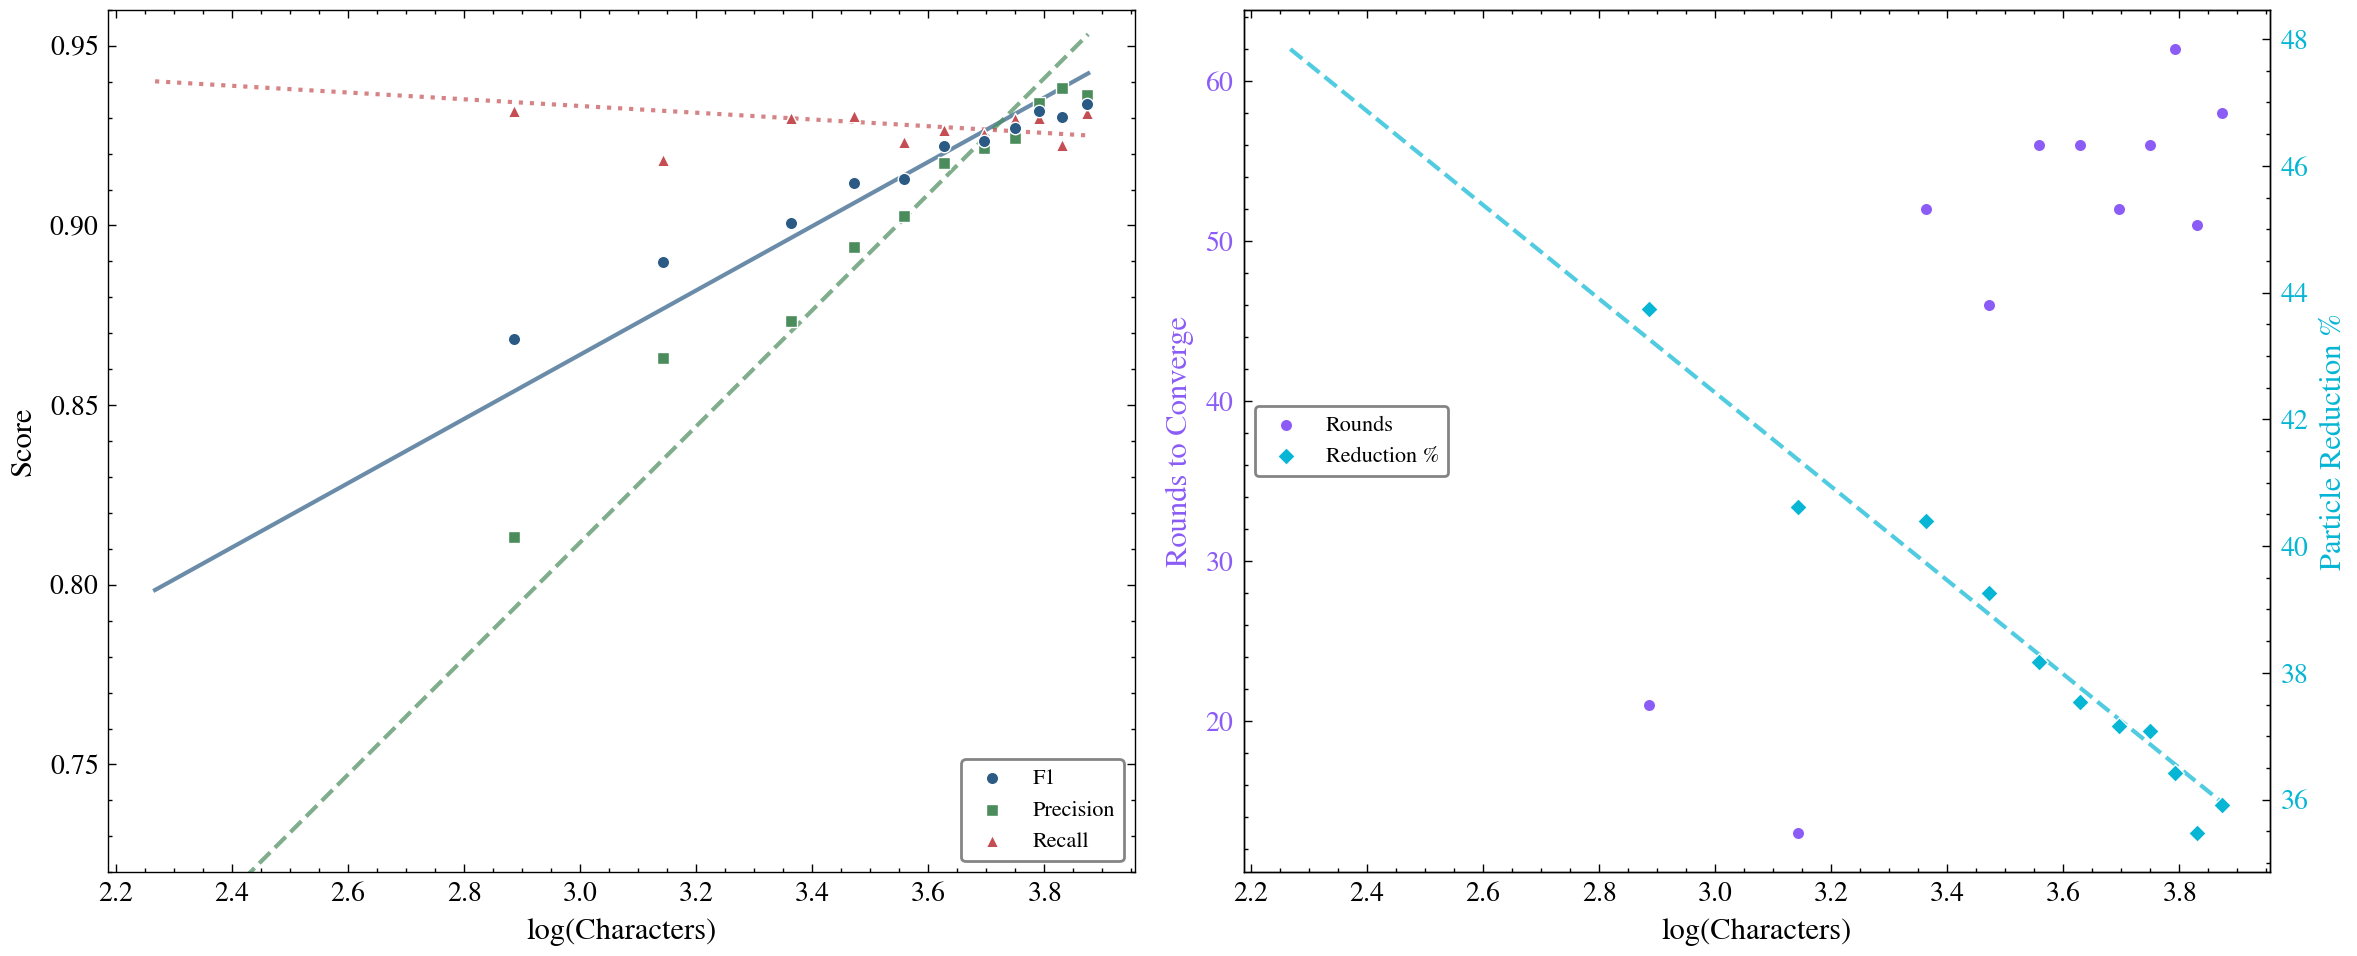
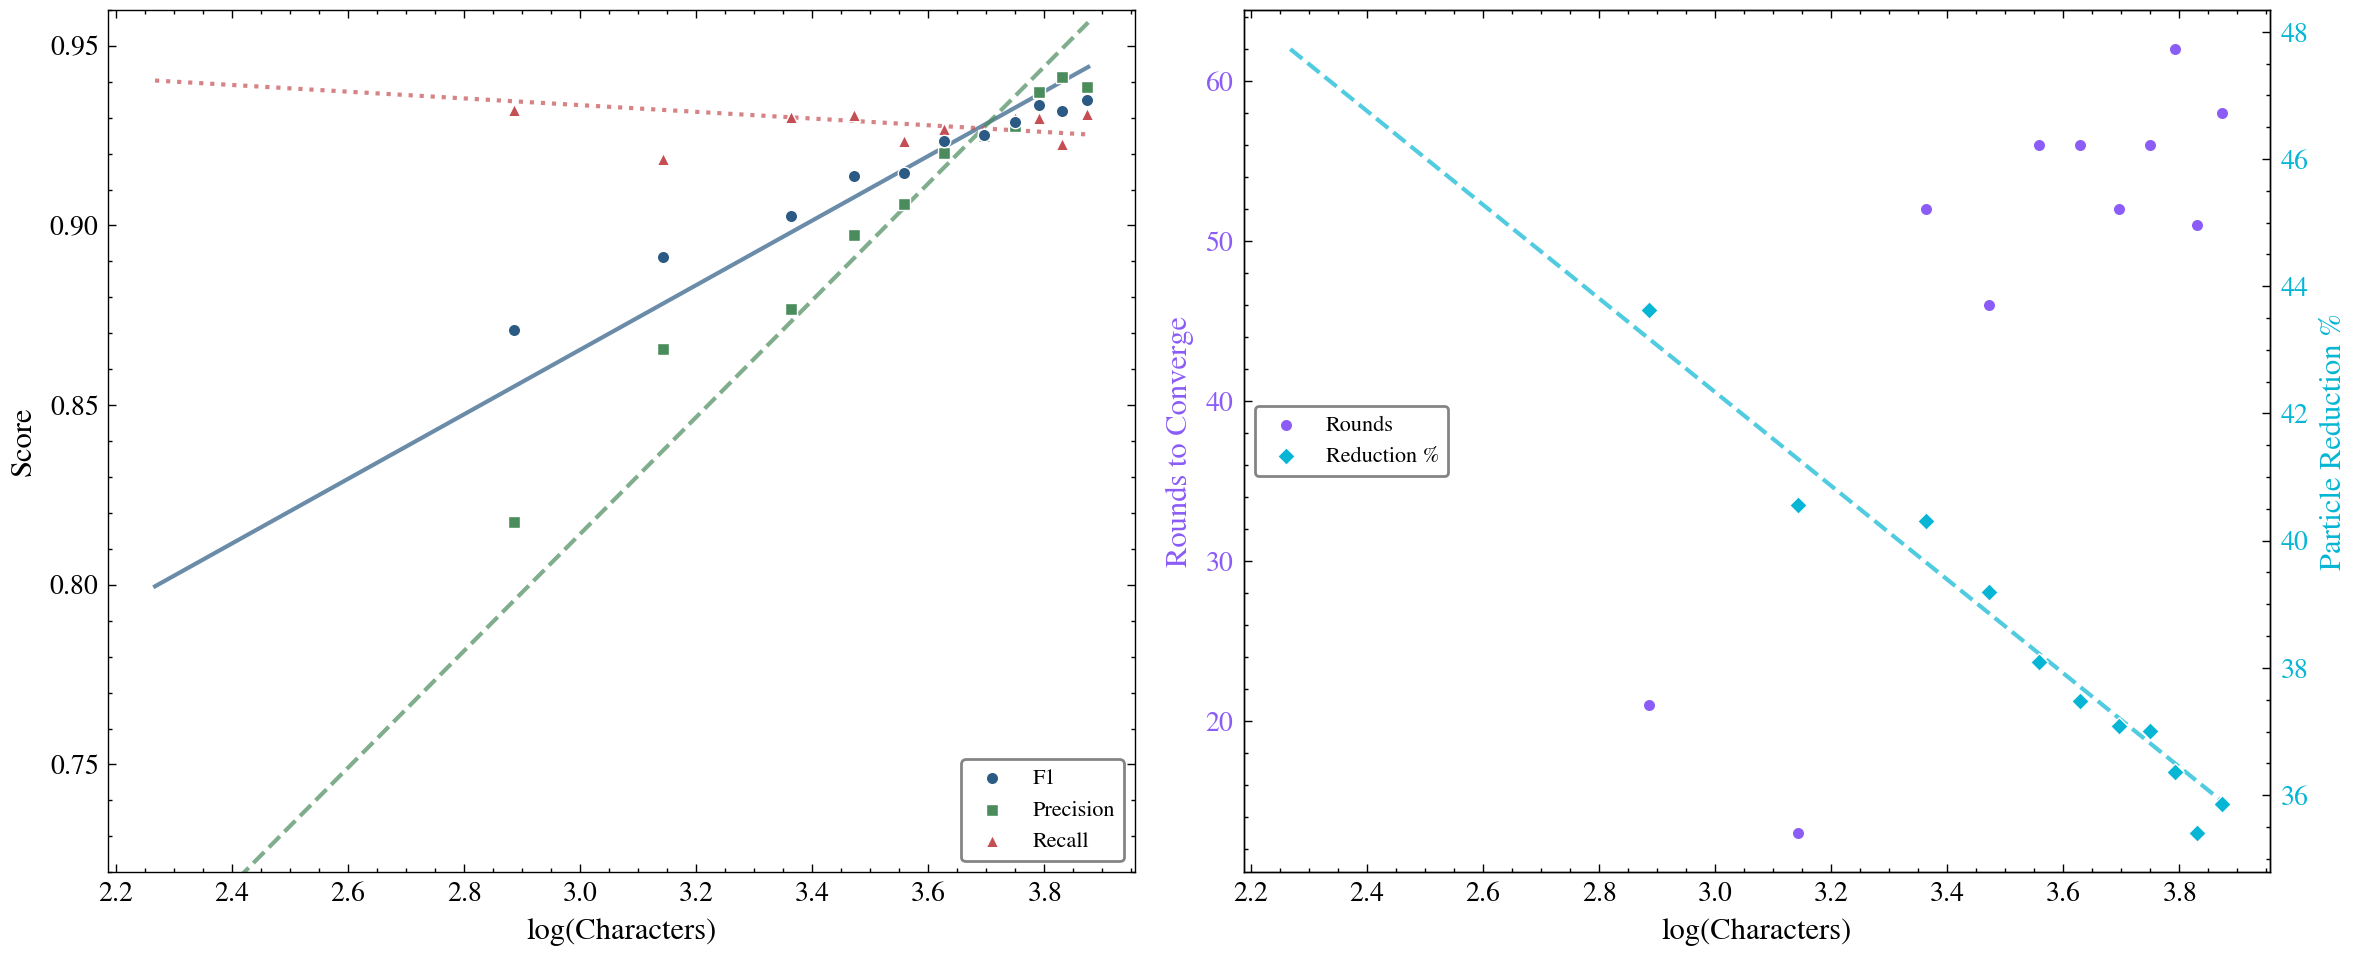
awa

diff --git a/README.md b/README.md
@@ -310,7 +310,7 @@ Running `python main.py eval` yields:
 | Unigram Jaccard                   |    $0.5705$    |     —      |
 | Bigram Jaccard                    |    $0.5864$    |     —      |
 
-The algorithm converges in **$58$ rounds**, reducing $7470$ atomic particles to $4 775$ ($36.1\%$ reduction). The $\text{F1} \approx 0.9325$ means $\sim 93\%$ of word boundaries agree with jieba — without any dictionary or labeled data. Notably, the granularity ratio ($1.003$) is almost exactly $1$, meaning the algorithm produces nearly the same number of tokens per sentence as jieba.
+The algorithm converges in **$58$ rounds**, reducing $7470$ atomic particles to $4 775$ ($36.1% reduction). The $\text{F1} \approx 0.9325$ means $\sim 93% of word boundaries agree with jieba — without any dictionary or labeled data. Notably, the granularity ratio ($1.003$) is almost exactly $1$, meaning the algorithm produces nearly the same number of tokens per sentence as jieba.
 
 A fine-grained error analysis of $7295$ boundary positions reveals the nature of the remaining 7% disagreement between Crystal Growth and Jieba. The two systems agree on $6681$ boundaries (91.6%) and disagree on $614$ boundaries. The error distribution is notably balanced, with an over-to-under-segmentation ratio of $1.07:1$, indicating no systematic bias. Phasing errors account for 34.5% of all disagreements, often occurring at compound word boundaries. For example, Crystal segments "北京大学哲学系任教" as "北京/大学/哲学/系任/教", while Jieba produces "北京大学哲学系/任教", with the phasing error centered on "哲学" versus "系". Over-segmentation frequently splits proper nouns and institutional names (e.g., "北京大学" → "北京/大学"); under-segmentation commonly affects verb-object and adjective-adverb combinations (e.g., "很难" → "很/难"); and phasing errors occur at compound boundaries (e.g., "一句话" → "一句/话" vs "一/句话"). The highest-error sentences, containing up to $22$ disagreements, feature multiple proper nouns, academic terminology, complex structures, and mixed registers.
 
@@ -487,8 +487,165 @@ The residual plot shows no systematic structure — the cubic model captures the
 
 All in all, together with the LOYO experiment, these results demonstrate that unsupervised word segmentation quality is a **predictable, quantifiable function of corpus size**: given enough text, the algorithm reliably reaches $\text{F1} \approx 0.933$ without any dictionary or labeled data.
 
+### Cross-Discipline Experiments
 
-## Code
+To evaluate the robustness of the algorithm across different academic fields, this study conducted a large-scale interdisciplinary experiment on a corpus covering $14$ disciplines. This corpus was constructed during my thesis work **"From Statistical Features to Semantic Space: A Study of Disciplinary Characteristics in Academic Chinese"**, encompassing a total of $1,400$ journal papers across $14$ disciplines. After quality screening, $20$ documents were selected from each discipline through systematic sampling (due to the limited computational capacity of the PC, which prevented full-scale computation on the complete corpus), resulting in $280$ training documents with a total character count of $3,075,129$ (including $2,520,628$ Chinese characters). The obtained sub-corpus averaged $9,002$ Chinese characters per document, with non-Chinese characters accounting for 7.2% of the total. The $14$ disciplines cover Mathematics (MA), Physics (PS), Chemistry (CH), Biology (BI), Geography (GE), Psychology (PC), Economics (EC), Sociology (SC), Social Science General (SS), Law (LA), History (HI), Philosophy (PL), Education (ED), and Literature (LI). Each document was independently segmented using default parameter settings, without any domain-specific tuning or prior exposure to the discipline's vocabulary. The evaluation metric is the boundary $\text{F1}$ score against jieba's tokenization, computed as micro-averaged precision and recall over all sentence boundaries within each document.
+
+#### Cross-Discipline Report
+
+Across all $280$ documents, the algorithm achieved an overall $\text{F1}$ of $0.9188 \pm 0.0197$, with precision $0.9129 \pm 0.0222$ and recall $0.9256 \pm 0.0298$. The average granularity ratio — the number of Crystal Growth tokens divided by the number of jieba tokens — was $1.015$, indicating a negligible overall tendency toward over-segmentation. The algorithm converged in an average of $51.2$ rounds, reducing the initial particle count by $36.8%.
+
+The $\text{F1}$ distribution across documents is well-behaved: the interquartile range spans from $0.9072$ to $0.9335$, with a minimum of $0.8393$ (a single outlier in Literature) and a maximum of $0.9530$ (in Education). The overall standard deviation of $0.0197$ is remarkably small given the breadth of disciplines, suggesting that the algorithm's statistical foundation produces consistent results across heterogeneous text types.
+
+A one-way ANOVA on discipline-level $\text{F1}$ means revealed that discipline identity is a highly significant predictor of segmentation quality. These parametric results are corroborated by distribution-free tests, and Levene's test confirms that the within-discipline variability is itself discipline-dependent — some fields, most notably Literature, produce far more heterogeneous segmentation difficulty than others.
+
+| Test           |  Statistic   |  Value   |       $p$-value        | Significance |
+| :------------- | :----------: | :------: | :--------------------: | :----------: |
+| One-way ANOVA  | $F(13, 266)$ |  $8.78$  | $6.80 \times 10^{-15}$ | $p < 0.001$  |
+| Eta-squared    |   $\eta^2$   | $0.3002$ |           —            |  very large  |
+| Kruskal-Wallis |   $H(13)$    | $82.57$  | $3.61 \times 10^{-12}$ | $p < 0.001$  |
+| Levene's test  |     $W$      |  $3.68$  | $2.21 \times 10^{-5}$  | $p < 0.001$  |
+
+The eta-squared of $0.3002$ is particularly noteworthy: discipline characteristics alone account for $30.0% of the total variance in $\text{F1}$ scores, a very large effect by Cohen's conventional benchmarks, and a larger contributor than document length, granularity ratio, or idiosyncratic document-level noise.
+
+![F1 scores by discipline with error bars](experiments/cross_discipline/results/experiment1/f1_by_discipline.png)
+
+The table below presents the full discipline-level statistics, ranked by mean $\text{F1}$. The 95% confidence interval is computed as $\bar{x} \pm 1.96 \cdot \sigma / \sqrt{N}$ under the normal approximation with $N = 20$ per discipline. The coefficient of variation quantifies within-discipline stability; lower values indicate that all $20$ documents within that discipline are segmented at similar quality, while higher values indicate substantial internal diversity.
+
+| Code | Discipline             | $N$  | $\text{F1}$ Mean | $\pm$Std |      95% CI       | CV |   Prec   |   Rec    |   GR    | Rounds | Red  |
+| :--: | :--------------------- | :--: | :--------------: | :------: | :------------------: | :-----------: | :------: | :------: | :-----: | :----: | :------: |
+|  ED  | Education              | $20$ |     $0.9347$     | $0.0119$ | $[0.9291,\, 0.9402]$ |    1.3%    | $0.9194$ | $0.9507$ | $1.033$ | $48.8$ | 37.8% |
+|  PC  | Psychology             | $20$ |     $0.9335$     | $0.0140$ | $[0.9270,\, 0.9401]$ |    1.5%    | $0.9356$ | $0.9316$ | $0.996$ | $49.6$ | 35.6% |
+|  SC  | Sociology              | $20$ |     $0.9299$     | $0.0097$ | $[0.9253,\, 0.9344]$ |    1.0%    | $0.9117$ | $0.9489$ | $1.040$ | $52.0$ | 37.1% |
+|  LA  | Law                    | $20$ |     $0.9272$     | $0.0118$ | $[0.9217,\, 0.9327]$ |    1.3%    | $0.9032$ | $0.9526$ | $1.053$ | $53.0$ | 38.0% |
+|  SS  | Social Science General | $20$ |     $0.9260$     | $0.0157$ | $[0.9187,\, 0.9334]$ |    1.7%    | $0.9100$ | $0.9430$ | $1.035$ | $49.6$ | 37.1% |
+|  PL  | Philosophy             | $20$ |     $0.9241$     | $0.0152$ | $[0.9170,\, 0.9312]$ |    1.6%    | $0.9094$ | $0.9396$ | $1.033$ | $51.1$ | 36.6% |
+|  EC  | Economics              | $20$ |     $0.9192$     | $0.0195$ | $[0.9101,\, 0.9283]$ |    2.1%    | $0.9065$ | $0.9327$ | $1.028$ | $54.2$ | 38.1% |
+|  MA  | Mathematics            | $20$ |     $0.9191$     | $0.0113$ | $[0.9138,\, 0.9244]$ |    1.2%    | $0.9437$ | $0.8962$ | $0.951$ | $49.8$ | 33.2% |
+|  BI  | Biology                | $20$ |     $0.9163$     | $0.0139$ | $[0.9098,\, 0.9228]$ |    1.5%    | $0.9176$ | $0.9153$ | $0.998$ | $48.2$ | 37.2% |
+|  GE  | Geography              | $20$ |     $0.9121$     | $0.0181$ | $[0.9036,\, 0.9206]$ |    2.0%    | $0.9054$ | $0.9193$ | $1.015$ | $46.9$ | 39.0% |
+|  PS  | Physics                | $20$ |     $0.9094$     | $0.0117$ | $[0.9039,\, 0.9148]$ |    1.3%    | $0.9175$ | $0.9017$ | $0.984$ | $51.6$ | 37.5% |
+|  HI  | History                | $20$ |     $0.9087$     | $0.0189$ | $[0.8998,\, 0.9175]$ |    2.1%    | $0.8963$ | $0.9216$ | $1.027$ | $54.5$ | 37.2% |
+|  CH  | Chemistry              | $20$ |     $0.9076$     | $0.0174$ | $[0.8995,\, 0.9158]$ |    1.9%    | $0.9077$ | $0.9082$ | $1.001$ | $53.4$ | 36.3% |
+|  LI  | Literature             | $20$ |     $0.8961$     | $0.0303$ | $[0.8819,\, 0.9103]$ |    3.4%    | $0.8962$ | $0.8964$ | $1.000$ | $55.2$ | 35.4% |
+
+
+
+The $\text{F1}$ spread between the best-performing discipline (Education, $\text{F1} = 0.9347$) and the worst-performing discipline (Literature, $\text{F1} = 0.8961$) is $0.0386$, or $3.9$ percentage points. This gap is both statistically significant and practically meaningful — it exceeds the typical $\text{F1}$ fluctuation within a discipline by a factor of $2$–$4$. Sociology is the most stable discipline, with a standard deviation of only $0.0097$ and a coefficient of variation of 1.0%, indicating that sociological academic prose is linguistically homogeneous enough to produce near-identical segmentation quality across all $20$ sampled documents. Literature, in contrast, is the most variable discipline: its documents range from classical poetry to modern literary criticism, each with radically different lexical and syntactic profiles. The 3.4% CV for Literature is more than triple that of the most stable discipline.
+
+![Precision-Recall ellipses by discipline](experiments/cross_discipline/results/experiment1/precision_recall_ellipses.png)
+
+**Effect sizes and disciplinary clustering.** Cohen's $d$ quantifies the standardized mean difference between Education and every other discipline.
+
+| Comparison | Cohen's $d$ | Effect Size |
+| :--------- | :---------: | :---------: |
+| ED vs PC   |  $+0.090$   | negligible  |
+| ED vs SC   |  $+0.445$   |    small    |
+| ED vs LA   |  $+0.633$   |   medium    |
+| ED vs SS   |  $+0.622$   |   medium    |
+| ED vs PL   |  $+0.775$   |   medium    |
+| ED vs EC   |  $+0.959$   |    large    |
+| ED vs MA   |  $+1.343$   |    large    |
+| ED vs BI   |  $+1.423$   |    large    |
+| ED vs GE   |  $+1.477$   |    large    |
+| ED vs HI   |  $+1.651$   |    large    |
+| ED vs LI   |  $+1.677$   |    large    |
+| ED vs CH   |  $+1.813$   |    large    |
+| ED vs PS   |  $+2.149$   |    large    |
+
+Education and Psychology are statistically indistinguishable ($d = +0.090$, negligible), confirming that these two disciplines share essentially the same segmentation difficulty. Education versus Sociology shows a small gap ($d = +0.445$), while Law, Social Science General, and Philosophy constitute a middle tier with medium effect sizes ($d \in [0.622, 0.775]$). All remaining disciplines exhibit large gaps from Education: Economics ($d = +0.959$), Mathematics ($d = +1.343$), Biology ($d = +1.423$), Geography ($d = +1.477$), History ($d = +1.651$), Literature ($d = +1.677$), Chemistry ($d = +1.813$), and Physics ($d = +2.149$). The fact that eleven of the thirteen comparisons exceed the "large effect" threshold ($|d| > 0.8$) underscores that the discipline hierarchy is not a statistical artefact but a genuine reflection of differential segmentation difficulty.
+
+Post-hoc Tukey HSD analysis identified $24$ statistically significant pairwise differences at $\alpha = 0.05$ among the $91$ possible discipline pairs.
+
+| Pair     | $p$-value | Cohen's $d$ |
+| :------- | :-------: | :---------: |
+| PS vs ED | $0.0003$  |  $-2.149$   |
+| PS vs SC | $0.0112$  |  $-1.911$   |
+| PS vs PC | $0.0008$  |  $-1.873$   |
+| CH vs ED | $0.0001$  |  $-1.813$   |
+| CH vs PC | $0.0002$  |  $-1.637$   |
+| CH vs SC | $0.0033$  |  $-1.576$   |
+| CH vs LA | $0.0206$  |  $-1.313$   |
+| CH vs SS | $0.0416$  |  $-1.108$   |
+| BI vs ED | $0.0412$  |  $-1.423$   |
+| MA vs LI | $0.0018$  |  $+1.007$   |
+
+The most pronounced contrasts all involve the two lowest-performing disciplines. Physics differs significantly from Education ($p = 0.0003$, $d = -2.149$), Psychology ($p = 0.0008$, $d = -1.873$), and Sociology ($p = 0.0112$, $d = -1.911$). Chemistry similarly differs from Education ($p = 0.0001$, $d = -1.813$), Psychology ($p = 0.0002$, $d = -1.637$), Sociology ($p = 0.0033$, $d = -1.576$), Social Science General ($p = 0.0416$, $d = -1.108$), and Law ($p = 0.0206$, $d = -1.313$). Mathematics versus Literature ($p = 0.0018$, $d = +1.007$) is the only significant cross-tier contrast involving a middle-ranked discipline.
+
+These results delineate a clear three-tier hierarchy. Education, Psychology, and Sociology form the top tier, with $\text{F1} > 0.929$, characterized by standardized academic prose with well-defined technical vocabulary — education research papers, for instance, are rich in pedagogical terms that exhibit strong, consistent co-occurrence patterns. Law, Social Science General, and Philosophy constitute the middle tier ($\text{F1} \in [0.924, 0.927]$), where legal terminology and philosophical discourse introduce moderate segmentation challenges. Economics, Mathematics, Biology, Geography, Physics, History, Chemistry, and Literature form the lower tier ($\text{F1} \in [0.896, 0.919]$). Within this lower tier, Mathematics stands out for its unusual precision-recall profile: despite ranking eighth in $\text{F1}$ ($0.9191$), it achieves the highest precision of any discipline ($0.9437$) but the lowest recall ($0.8962$). The algorithm consistently under-segments mathematical texts — it is conservative about splitting formula components, preserving long symbolic sequences that jieba would fragment. Physics exhibits the mirror pattern: high precision ($0.9175$) and low recall ($0.9017$), with a granularity ratio of $0.984$, the only discipline where Crystal Growth produces *fewer* tokens than jieba, suggesting that physics terminology is recognized by Crystal Growth as coherent units more often than by jieba's dictionary-based approach.
+
+**Correlations with document characteristics.** Across the full $280$-document dataset, the Spearman rank correlation between document length (in characters) and $\text{F1}$ is $\rho = 0.404$ ($p < 0.001$). This moderate positive correlation recapitulates the scaling behaviour observed in the single-text experiment: longer documents provide richer co-occurrence statistics and achieve slightly higher segmentation quality.
+
+![F1 vs document length with regression](experiments/cross_discipline/results/experiment1/f1_vs_length.png)
+
+The Pearson correlation between $\text{F1}$ and granularity ratio is $r = 0.282$ ($p < 0.001$), a weaker positive association indicating that disciplines where the algorithm produces marginally more tokens than jieba tend to score higher — but the effect is small enough that granularity ratio alone cannot serve as a reliable proxy for segmentation quality.
+
+![F1 vs granularity ratio](experiments/cross_discipline/results/experiment1/f1_vs_granularity.png)
+
+![Granularity ratio and token length by discipline](experiments/cross_discipline/results/experiment1/granularity_by_discipline.png)
+
+These global correlations mask substantial discipline-level heterogeneity, as revealed by per-discipline regression analyses.
+
+| Test                    | Statistic |  Value  | $p$-value | Significance |
+| :---------------------- | :-------: | :-----: | :-------: | :----------: |
+| F1 vs Length (Pearson)  |    $r$    | $0.338$ |     —     |      —       |
+| F1 vs Length (Spearman) |  $\rho$   | $0.404$ | $<0.001$  | $p < 0.001$  |
+| F1 vs GR (Pearson)      |    $r$    | $0.282$ | $<0.001$  | $p < 0.001$  |
+| F1 vs GR (Spearman)     |  $\rho$   | $0.272$ | $<0.001$  | $p < 0.001$  |
+
+The table below presents the Pearson correlation coefficients and associated $p$-values for $\text{F1}$ versus document length and $\text{F1}$ versus granularity ratio, computed separately within each discipline.
+
+| Discipline             | $\text{F1}$ vs Length ($r$) |   $p$    | $\text{F1}$ vs GR ($r$) |   $p$   |
+| :--------------------- | :-------------------------: | :------: | :---------------------: | :-----: |
+| Mathematics            |           $0.720$           | $<0.001$ |         $0.547$         | $0.013$ |
+| Geography              |           $0.636$           | $0.003$  |         $0.241$         | $0.305$ |
+| Social Science General |           $0.532$           | $0.016$  |         $0.175$         | $0.462$ |
+| Law                    |           $0.472$           | $0.036$  |        $-0.238$         | $0.312$ |
+| Chemistry              |           $0.443$           | $0.050$  |         $0.412$         | $0.071$ |
+| Economics              |           $0.439$           | $0.053$  |         $0.109$         | $0.646$ |
+| Literature             |           $0.388$           | $0.091$  |         $0.700$         | $0.001$ |
+| Physics                |           $0.337$           | $0.146$  |         $0.013$         | $0.957$ |
+| Education              |           $0.318$           | $0.172$  |        $-0.018$         | $0.940$ |
+| Sociology              |           $0.315$           | $0.176$  |        $-0.487$         | $0.030$ |
+| History                |           $0.267$           | $0.256$  |         $0.511$         | $0.021$ |
+| Biology                |           $0.157$           | $0.509$  |        $-0.222$         | $0.347$ |
+| Philosophy             |           $0.110$           | $0.643$  |        $-0.179$         | $0.450$ |
+| Psychology             |           $0.106$           | $0.655$  |         $0.312$         | $0.181$ |
+
+Mathematics exhibits the strongest length dependence of any discipline ($r = 0.720$, $p < 0.001$): within mathematics papers, longer documents systematically outperform shorter ones, suggesting that formula-heavy content requires substantially more contextual evidence — including surrounding explanatory prose — to resolve word boundaries reliably. A $4{,}000$-character mathematics paper may contain only $2{,}000$ characters of actual Chinese text once formulas are excluded, and the co-occurrence statistics degrade accordingly. The strong granularity correlation in mathematics ($r = 0.547$, $p = 0.013$) further suggests that the trade-off between over- and under-segmentation is particularly acute in this discipline.
+
+Geography and Social Science General follow with moderate length effects ($r = 0.636$ and $r = 0.532$, respectively), both statistically significant. These disciplines occupy a middle ground where document length provides meaningful but not overwhelming predictive power.
+
+Literature displays the most distinctive correlation profile: a non-significant length effect ($r = 0.388$, $p = 0.091$) coupled with the strongest granularity dependence of any discipline ($r = 0.700$, $p = 0.001$). In literary texts, simply having more text does not reliably improve segmentation — what matters is the *kind* of segmentation the algorithm produces. The strong positive correlation with granularity ratio means that literary documents where Crystal Growth over-segments (producing more tokens than jieba) consistently achieve higher $\text{F1}$ scores than those where it under-segments. This is a clear signal that the algorithm's default configuration is too conservative for literary Chinese: classical allusions, poetic diction, and mixed-register vocabulary demand more aggressive splitting than standard academic prose. The non-significant length effect further suggests that literary texts' segmentation difficulty is determined by qualitative stylistic features — register mixing, genre conventions, lexical diversity — rather than by the sheer quantity of text available.
+
+History mirrors Literature's pattern more moderately, with a significant granularity correlation ($r = 0.511$, $p = 0.021$) and a non-significant length effect ($r = 0.267$, $p = 0.256$). Historical texts, like literary ones, contain mixed registers (archaic terms, quoted primary sources, modern analytical prose), and the algorithm benefits from more aggressive boundary placement.
+
+Sociology presents the inverse pattern: a significant *negative* correlation with granularity ($r = -0.487$, $p = 0.030$) and no significant length effect ($r = 0.315$, $p = 0.176$). In sociological texts, over-segmentation is actively penalized — the discipline's standardized, high-frequency sociological terminology forms stable multi-character compounds that the algorithm should preserve rather than fragment. This is the only discipline where the data clearly indicates that *less* splitting would improve performance.
+
+Psychology, Philosophy, Biology, and Economics show no significant correlations with either length or granularity: the algorithm's performance in these disciplines is independent of document-level characteristics measurable by these metrics. This is not a weakness — it indicates robustness: within these domains, segmentation quality is stable across documents of varying length and token density.
+
+**Convergence behaviour.** The algorithm converged in an average of $51.2$ rounds across all $280$ documents, with a mean particle reduction of 36.8%.
+
+![Convergence behavior by discipline](experiments/cross_discipline/results/experiment1/convergence_by_discipline.png)
+
+Rounds to convergence ranged from $46.9$ (Geography) to $55.2$ (Literature). The convergence time correlates with segmentation difficulty: Literature, which required the most rounds ($55.2$), is also the lowest-$\text{F1}$ discipline; Geography, which converged fastest ($46.9$), sits near the middle of the $\text{F1}$ distribution. This pattern reflects the damped annealing schedule: texts with more ambiguous word boundaries demand longer annealing — more rounds of slow, deep oscillation — before the system stabilises. Literature's 3.4% CV and high convergence-round count are two manifestations of the same underlying property: extreme within-discipline linguistic diversity.
+
+The particle reduction rate — the percentage of initial atomic particles eliminated through merging — varied from 33.2% (Mathematics) to 39.0% (Geography). Mathematics' low reduction rate is a direct consequence of formula density: mathematical symbols ($x$, $y$, $\alpha$, $\int$, etc.) resist merging because they rarely form stable co-occurrence patterns with surrounding Chinese characters. Geography's high reduction rate reflects the opposite.
+
+
+
+> [!IMPORTANT]
+>
+> The cross-discipline experiment establishes four principal findings. 
+>
+> 1. The algorithm achieves robust generalization: $\text{F1} > 0.90$ across all $14$ disciplines without any domain-specific tuning, and $\text{F1} > 0.93$ for the top four disciplines.
+> 2. As we can see, discipline identity is a significant and substantial predictor of segmentation quality, accounting for 30.0% of $\text{F1}$ variance, a larger effect than document length, granularity, or random noise.
+> 3. The discipline hierarchy reveals a social sciences advantage: disciplines with standardized academic prose and well-defined technical vocabulary (Education, Psychology, Sociology) systematically outperform those with formula-dense texts (Mathematics, Physics), mixed-register language (Literature, History), or both (Chemistry). 
+> 4. Discipline-specific correlation patterns between $\text{F1}$ and document characteristics reveal actionable directions for future adaptive tuning: literary texts would benefit from lower relaxation factors to encourage more aggressive splitting; sociological and mathematical texts would benefit from higher relaxation factors to prevent over-fragmentation of technical terminology.
+>
+> The fact that even the worst-performing discipline (Literature, $\text{F1} = 0.8961$) remains very close to $0.90$, and that the coefficient of variation for the whole dataset is only 2.1%, demonstrates that the algorithm's statistical foundation produces genuinely domain-agnostic segmentation. The remaining performance variation is not a failure of the method but an honest reflection of differential linguistic structure across academic disciplines: some text types are inherently harder to segment without lexical knowledge, and the algorithm's sensitivity to this variation is a sign of its statistical fidelity rather than its fragility.
+>
+
 
 ### Project Structure
 